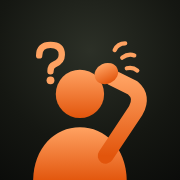
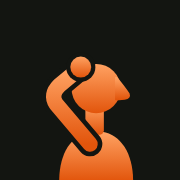
v1.4: sivuprofiililogo, Fredoka-fontti, uudet kuvakkeet
Claude-Session: https://claude.ai/code/session_01T9mnuKsTmdKxgXB5i6fKvY

Changed region(s): [[0.1667, 0.2222, 0.8333, 1.0], [0.6111, 0.2222, 0.7778, 0.3333]]

diff --git a/index.html b/index.html
@@ -8,7 +8,7 @@
 <meta name="theme-color" content="#0d0e0c">
 <meta name="robots" content="noindex, nofollow">
 <meta name="apple-mobile-web-app-title" content="Venaas">
-<link rel="apple-touch-icon" href="icon-180.png?v=2">
+<link rel="apple-touch-icon" href="icon-180.png?v=3">
 <link rel="icon" type="image/svg+xml" href="logo.svg">
 <link rel="alternate icon" type="image/png" href="icon-192.png">
 <link rel="manifest" href="manifest.webmanifest">
@@ -250,7 +250,9 @@
 
   .engine{max-width:120px;line-height:1.4;font-size:10px}
   .brand{display:flex;align-items:center;gap:10px}
-  .mark{width:40px;height:40px;filter:drop-shadow(0 2px 0 #000) drop-shadow(0 3px 6px rgba(0,0,0,.6))}
+  .mark{width:44px;height:44px;filter:drop-shadow(0 2px 0 #000) drop-shadow(0 3px 6px rgba(0,0,0,.6))}
+  @font-face{font-family:'Fredoka';font-weight:700;font-display:swap;src:url('fredoka-700.woff2') format('woff2')}
+  .logo{font-family:'Fredoka','Archivo Black',sans-serif;font-weight:700;text-transform:none;letter-spacing:.01em;font-size:30px;line-height:1}
   /* Logo hieman kohokuvioksi */
   .logo{text-shadow:0 2px 0 #000,0 3px 6px rgba(0,0,0,.6)}
 </style>
@@ -259,15 +261,18 @@
 <header>
   <div class="brand"><svg class="mark" viewBox="0 0 100 100" aria-hidden="true">
   <defs><linearGradient id="vg" x1="0" y1="0" x2="0" y2="1"><stop offset="0" stop-color="#ffa262"/><stop offset="1" stop-color="#e2550c"/></linearGradient></defs>
-  <circle cx="43" cy="41" r="16" fill="url(#vg)"/>
-  <path d="M12 99 C12 77 26 63 43 63 C60 63 74 77 74 99 Z" fill="url(#vg)"/>
-  <path d="M60 82 L80 52 Q85 43 78 37 L64 30" fill="none" stroke="url(#vg)" stroke-width="10.5" stroke-linecap="round" stroke-linejoin="round"/>
-  <ellipse cx="60.5" cy="27.5" rx="8" ry="6.8" transform="rotate(-25 60.5 27.5)" fill="url(#vg)"/>
-  <g fill="none" stroke="#ffa262" stroke-width="2.8" stroke-linecap="round">
-    <path d="M66 12 q2 -4.5 7 -4.5"/><path d="M71 17 q4 -3 8 -1.5"/><path d="M74 24 q4 -1 7 1.5"/>
+  <g fill="url(#vg)" stroke="url(#vg)" stroke-linejoin="round">
+    <path d="M30 100 C30 82 38 70 50 68 L58 68 C70 70 78 82 78 100 Z" stroke-width="0"/>
+    <rect x="47" y="50" width="12" height="20" rx="3" stroke-width="0"/>
+    <circle cx="54" cy="40" r="16" stroke-width="0"/>
+    <path d="M67 33 Q72 39 75 43.5 Q76 46 72.5 46.5 L67 47 Z" stroke-width="1.5"/>
   </g>
-  <path d="M16 15.5 q0 -7 7.5 -7 q7.5 0 7.5 6.5 q0 4.5 -5 6.5 q-2.5 1 -2.5 4.5" fill="none" stroke="#ffa262" stroke-width="4.2" stroke-linecap="round" stroke-linejoin="round"/>
-  <circle cx="23.5" cy="32" r="2.6" fill="#ffa262"/>
+  <g fill="none" stroke-linecap="round" stroke-linejoin="round">
+    <path d="M50 76 L28 50 Q24 44 30 38 L42 28" stroke="#0d0e0c" stroke-width="16"/>
+    <path d="M50 76 L28 50 Q24 44 30 38 L42 28" stroke="url(#vg)" stroke-width="10"/>
+  </g>
+  <circle cx="44" cy="26" r="9.5" fill="#0d0e0c"/>
+  <circle cx="44" cy="26" r="6.8" fill="url(#vg)"/>
 </svg><div class="logo">Ven<span>aa</span>s</div></div>
   <div class="engine" id="engine">Valmistellaan…</div>
 </header>
@@ -321,16 +326,19 @@
     </div>
     <div class="set-about"><svg viewBox="0 0 100 100" width="72" height="72" aria-hidden="true">
   <defs><linearGradient id="vg2" x1="0" y1="0" x2="0" y2="1"><stop offset="0" stop-color="#ffa262"/><stop offset="1" stop-color="#e2550c"/></linearGradient></defs>
-  <circle cx="43" cy="41" r="16" fill="url(#vg2)"/>
-  <path d="M12 99 C12 77 26 63 43 63 C60 63 74 77 74 99 Z" fill="url(#vg2)"/>
-  <path d="M60 82 L80 52 Q85 43 78 37 L64 30" fill="none" stroke="url(#vg2)" stroke-width="10.5" stroke-linecap="round" stroke-linejoin="round"/>
-  <ellipse cx="60.5" cy="27.5" rx="8" ry="6.8" transform="rotate(-25 60.5 27.5)" fill="url(#vg2)"/>
-  <g fill="none" stroke="#ffa262" stroke-width="2.8" stroke-linecap="round">
-    <path d="M66 12 q2 -4.5 7 -4.5"/><path d="M71 17 q4 -3 8 -1.5"/><path d="M74 24 q4 -1 7 1.5"/>
+  <g fill="url(#vg2)" stroke="url(#vg2)" stroke-linejoin="round">
+    <path d="M30 100 C30 82 38 70 50 68 L58 68 C70 70 78 82 78 100 Z" stroke-width="0"/>
+    <rect x="47" y="50" width="12" height="20" rx="3" stroke-width="0"/>
+    <circle cx="54" cy="40" r="16" stroke-width="0"/>
+    <path d="M67 33 Q72 39 75 43.5 Q76 46 72.5 46.5 L67 47 Z" stroke-width="1.5"/>
   </g>
-  <path d="M16 15.5 q0 -7 7.5 -7 q7.5 0 7.5 6.5 q0 4.5 -5 6.5 q-2.5 1 -2.5 4.5" fill="none" stroke="#ffa262" stroke-width="4.2" stroke-linecap="round" stroke-linejoin="round"/>
-  <circle cx="23.5" cy="32" r="2.6" fill="#ffa262"/>
-</svg><br>Venaas v1.3<br>Tekijä: <a href="https://www.hideawaygroup.fi" target="_blank" rel="noopener">Hideaway Group Oy</a><br>Muistiinpanot tallentuvat vain tähän laitteeseen.</div>
+  <g fill="none" stroke-linecap="round" stroke-linejoin="round">
+    <path d="M50 76 L28 50 Q24 44 30 38 L42 28" stroke="#1a1d17" stroke-width="16"/>
+    <path d="M50 76 L28 50 Q24 44 30 38 L42 28" stroke="url(#vg2)" stroke-width="10"/>
+  </g>
+  <circle cx="44" cy="26" r="9.5" fill="#1a1d17"/>
+  <circle cx="44" cy="26" r="6.8" fill="url(#vg2)"/>
+</svg><br>Venaas v1.4<br>Tekijä: <a href="https://www.hideawaygroup.fi" target="_blank" rel="noopener">Hideaway Group Oy</a><br>Muistiinpanot tallentuvat vain tähän laitteeseen.</div>
   </section>
 </main>
 
@@ -348,7 +356,7 @@
     Asetukset
   </button>
 </nav>
-<footer>Venaas v1.3 · <a href="https://www.hideawaygroup.fi" target="_blank" rel="noopener">Hideaway Group Oy</a></footer>
+<footer>Venaas v1.4 · <a href="https://www.hideawaygroup.fi" target="_blank" rel="noopener">Hideaway Group Oy</a></footer>
 <div class="toast" id="toast"></div>
 
 <script>
